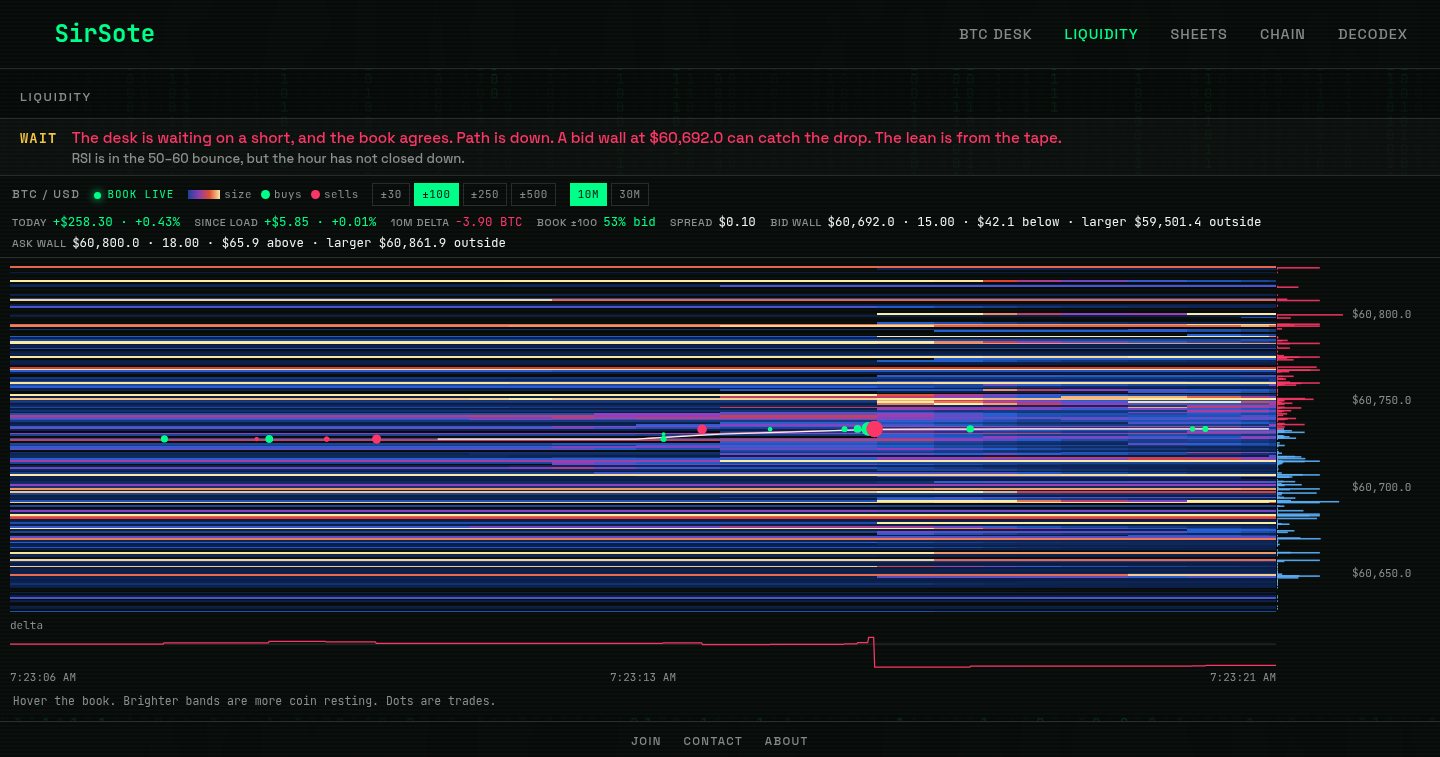
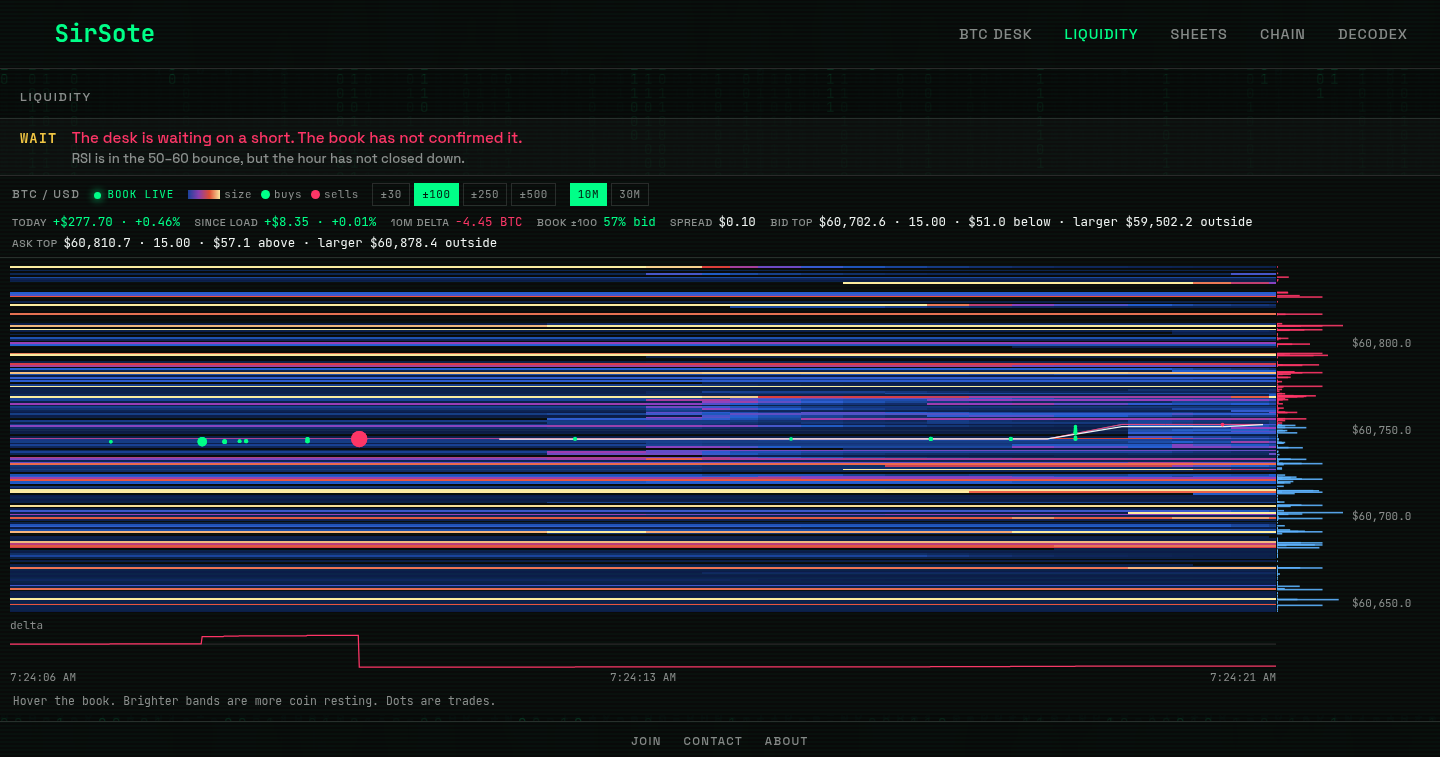
Update the sheet.

diff --git a/p/sheets/index.html b/p/sheets/index.html
@@ -30,13 +30,13 @@
     </header>
     <main>
         <article class="sheet">
-        <p class="sheet-kicker">BTC Desk · Update · <strong>7:23 AM MST</strong></p>
+        <p class="sheet-kicker">BTC Desk · Update · <strong>7:24 AM MST</strong></p>
         <dl class="lines">
             <div><dt>Day</dt><dd><span class="call wait">WAIT</span> · <span class="price">$60,793.50</span></dd></div>
             <div><dt>Swing</dt><dd><span class="call short">SHORT</span></dd></div>
             <div><dt>Hold</dt><dd><span class="call short">SHORT</span></dd></div>
         </dl>
-        <p class="why">Book <span class="call long">agrees</span></p>
+        
         <p class="since">Unchanged since <strong>7:01 AM MST</strong></p>
         <p class="why">RSI is in the 50–60 bounce, but the hour has not closed down.</p>
         
